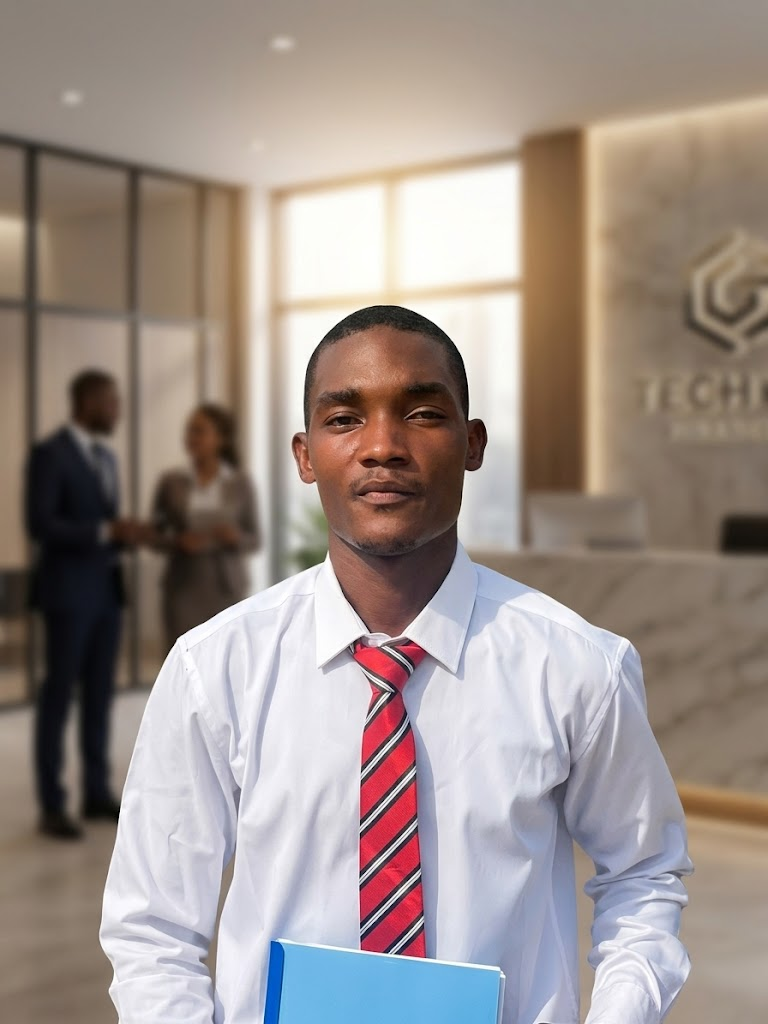
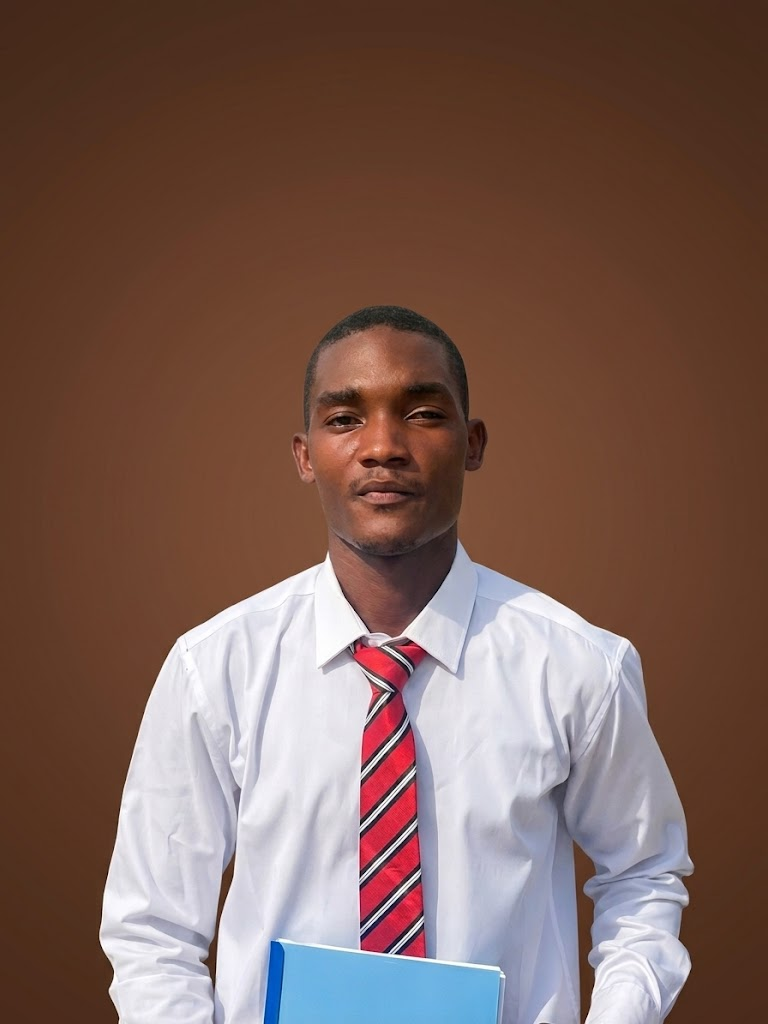
Fix team bubble border gap, make bubbles bigger
- Border-radius clip + border on the same element could leave a
  sub-pixel seam at the top of the circle (visible gap in the ring).
  Moved the colored ring to a separate ::after overlay so the image
  clip and the ring are never fighting over the same box.
- Increased bubble sizes ~20-25% across all four
- Updated procurement officer photo to the latest brown-background version

diff --git a/public/site/assets/css/gps-home.css b/public/site/assets/css/gps-home.css
@@ -188,7 +188,6 @@
 	position: absolute;
 	border-radius: 50%;
 	overflow: hidden;
-	border: 4px solid var(--accent-color);
 	box-shadow: 0 18px 36px -16px rgba(0, 0, 0, 0.55);
 	animation: gps-bubble-float 6s ease-in-out infinite;
 }
@@ -200,44 +199,57 @@
 	object-fit: cover;
 }
 
+/* The colored ring is drawn as an overlay rather than a border on the
+   clipping element itself -- a border sharing the same box as the
+   border-radius/overflow clip can leave a sub-pixel seam at the top of
+   the circle where the browser rounds the clip path and the border
+   curve slightly differently. An overlay ring has no such interaction. */
+.gps-team-bubble::after {
+	content: '';
+	position: absolute;
+	inset: 0;
+	border-radius: 50%;
+	border: 4px solid var(--accent-color);
+	pointer-events: none;
+}
+
 .gps-team-bubble--1 {
-	top: 8%;
-	left: 6%;
-	width: clamp(110px, 17vw, 175px);
-	height: clamp(110px, 17vw, 175px);
+	top: 6%;
+	left: 4%;
+	width: clamp(135px, 21vw, 215px);
+	height: clamp(135px, 21vw, 215px);
 	animation-duration: 6.5s;
 	animation-delay: 0s;
 }
 .gps-team-bubble--1 img { object-position: center 22%; }
 
 .gps-team-bubble--2 {
-	top: 4%;
-	right: 8%;
-	width: clamp(85px, 13vw, 135px);
-	height: clamp(85px, 13vw, 135px);
-	border-color: var(--accent-color-2);
+	top: 2%;
+	right: 6%;
+	width: clamp(105px, 16vw, 165px);
+	height: clamp(105px, 16vw, 165px);
 	animation-duration: 5.5s;
 	animation-delay: 0.6s;
 }
+.gps-team-bubble--2::after { border-color: var(--accent-color-2); }
 .gps-team-bubble--2 img { object-position: center 18%; }
 
 .gps-team-bubble--3 {
-	bottom: 10%;
-	left: 16%;
-	width: clamp(95px, 14vw, 150px);
-	height: clamp(95px, 14vw, 150px);
-	border-color: var(--white-color);
+	bottom: 8%;
+	left: 12%;
+	width: clamp(115px, 17vw, 185px);
+	height: clamp(115px, 17vw, 185px);
 	animation-duration: 7s;
 	animation-delay: 0.3s;
 }
+.gps-team-bubble--3::after { border-color: var(--white-color); }
 .gps-team-bubble--3 img { object-position: center 15%; }
 
 .gps-team-bubble--4 {
-	bottom: 4%;
-	right: 4%;
-	width: clamp(120px, 18vw, 185px);
-	height: clamp(120px, 18vw, 185px);
-	border-color: var(--accent-color);
+	bottom: 2%;
+	right: 2%;
+	width: clamp(145px, 22vw, 225px);
+	height: clamp(145px, 22vw, 225px);
 	animation-duration: 6s;
 	animation-delay: 0.9s;
 }
